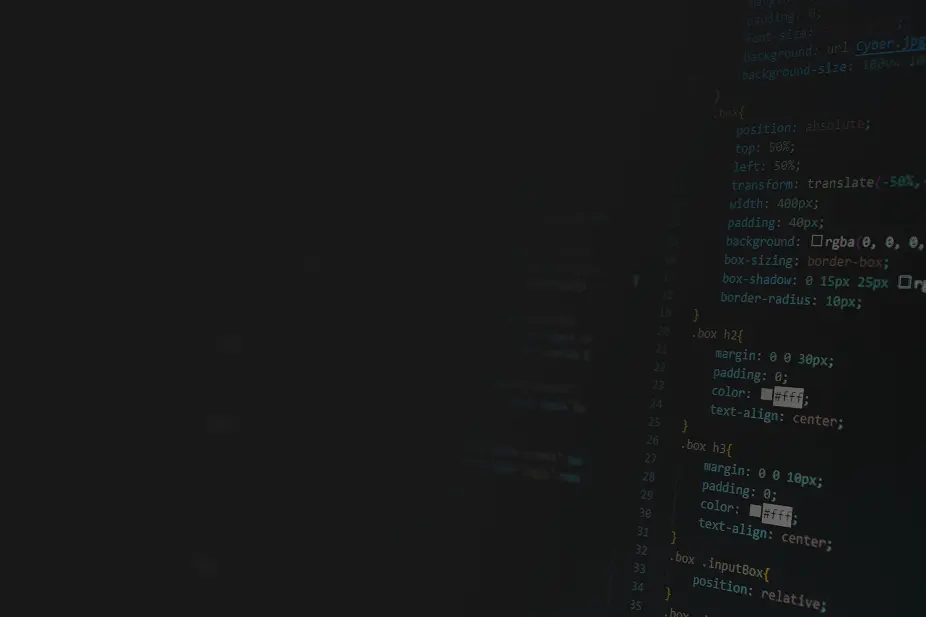
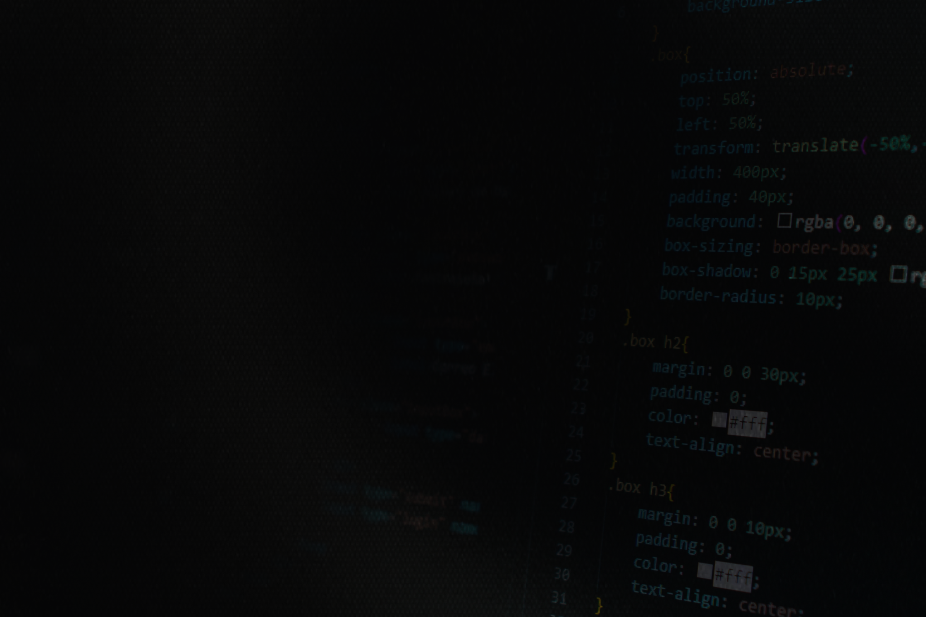
push 6

diff --git a/src/css/App.css b/src/css/App.css
@@ -30,15 +30,15 @@
 */
 
 :root {
-  /* --primary_color: rgba(160, 23, 3, 0.9); */
-  --primary_color: #ff1030;
-
-  /* --primary_color-dull: rgba(160, 23, 3, 0.7); */
-  --primary_color-dull: rgba(255, 16, 48, 0.7);
+  --primary_color: rgba(160, 23, 3, 1);
+  --accent_color: #ff1030;
+  --complimentary_color: #efd0a8;
+  --primary_color-dull: rgba(160, 23, 3, 0.7);
+  /* --primary_color-dull: rgba(255, 16, 48, 0.7); */
   --bg_img: url("liquid-bg.jpeg");
   /* --bg_texture: url("bg-texture.jpeg"); */
   --silver_color: #c0c0c0;
-  --bg_color: #121212;
+  --bg_color: #0b0b0b;
   --container_color: #101010;
   --border_color: #373737;
   --tech_font: "Bai Jamjuree", sans-serif;
@@ -82,11 +82,11 @@ body {
 
 #black-mobile-overlay {
   /*background-image: url("bg-gradient.webp");*/
-  background: rgb(77, 77, 77);
+  background: rgb(188 74 74);
   background-repeat: no-repeat;
   background-position: center;
   background-size: cover;
-  mix-blend-mode: multiply;
+  mix-blend-mode: color-burn;
   position: fixed;
   height: 100svh;
   width: 100%;
@@ -158,6 +158,15 @@ ul {
 /* On hover */
 ::-webkit-scrollbar-thumb:hover {
   background: #851403;
+}
+
+.videoWrapper {
+  opacity: 0;
+  transition: opacity 2s ease-in-out;
+}
+
+.videoWrapper.loaded {
+  opacity: 1;
 }
 
 .portfolio-video {
@@ -941,7 +950,7 @@ main.drake-main {
 
 /* 05 - Section Header */
 .section-header h1 {
-  font-size: 54px;
+  font-size: 62px;
   line-height: 60px;
   color: var(--silver_color);
   font-weight: 400;
@@ -959,7 +968,7 @@ main.drake-main {
   border-radius: 30px;
   border: 1px solid var(--border_color);
   position: fixed;
-  left: 20px;
+  left: 2vw;
   top: 50%;
   padding: 50px;
   z-index: 10;
@@ -1137,9 +1146,9 @@ main.drake-main {
   color: white;
 }
 .hero-section .hero-content h1 span {
-  color: var(--primary_color);
+  color: var(--accent_color);
   font-weight: 500;
-  /* text-shadow: 0 0 30px rgba(160, 23, 3, 0.15); */
+  text-shadow: 0 0 30px rgba(160, 23, 3, 0.35);
   /* animation: flicker 10s infinite ease-in-out; */
   will-change: text-shadow;
 }
@@ -1210,7 +1219,7 @@ main.drake-main {
 .hero-section .hero-content .facts h1 {
   font-size: 72px;
   font-family: var(--tech_font);
-  color: var(--primary_color);
+  color: var(--accent_color);
   line-height: 56px;
   margin-bottom: 18px;
   font-weight: 300;
@@ -1304,14 +1313,20 @@ body .body-overlay {
   left: 0;
   top: 0;
   width: 100%;
-  height: 100%;
+  height: 100svh;
   object-fit: cover;
   z-index: -2;
-  opacity: 0.4 !important;
   mix-blend-mode: hard-light;
   mix-blend-mode: lighten;
   /* transform: scaleX(-1); */
+  opacity: 0;
+  transition: opacity 2s ease-in-out;
 }
+
+body .body-overlay.loaded {
+  opacity: 0.4 !important;
+}
+
 /*.home2-page .body-overlay,*/
 /*.home3-page .body-overlay {*/
 /*  opacity: 0.1;*/
@@ -1405,7 +1420,8 @@ body .body-overlay {
   padding-bottom: 90px;
 }
 .services-items .service-item {
-  border: 1px solid rgba(160, 23, 3, 0.5);
+  /* border: 1px solid rgba(160, 23, 3, 0.3); */
+  border: 1px solid var(--border_color);
   border-radius: 20px;
   transition: 0.3s;
   position: relative;
@@ -1413,7 +1429,7 @@ body .body-overlay {
   margin-bottom: 20px;
   background-size: cover;
   background-repeat: no-repeat;
-  min-height: 430px;
+  min-height: 400px;
   display: flex;
   flex-direction: column;
   justify-content: center;
@@ -1437,7 +1453,7 @@ body .body-overlay {
   margin-bottom: 0;
 }
 .services-items .service-item h2 {
-  font-size: 40px;
+  font-size: 42px;
   font-weight: 400;
   margin-bottom: 12px;
   color: #fff;
@@ -1462,14 +1478,15 @@ body .body-overlay {
 }
 .services-items .service-item .projects {
   font-family: var(--tech_font);
-  font-weight: 500;
+  font-weight: 700;
   font-size: 12px;
   color: #fff;
+  /* color: var(--accent_color); */
   opacity: 0.9;
   letter-spacing: 1px;
   text-transform: uppercase;
   display: inline-block;
-  max-width: 64%;
+  max-width: 70%;
 }
 .services-items .service-item:hover .projects {
   /*text-decoration: underline;*/
@@ -1478,7 +1495,8 @@ body .body-overlay {
   position: absolute;
   font-size: 100px;
   opacity: 0.4;
-  color: var(--primary_color-dull);
+  text-shadow: 0 0 10px rgba(0, 0, 0, 0.9);
+  color: var(--silver_color);
   top: 25px;
   right: 30px;
   margin-bottom: 16px;
@@ -1621,7 +1639,7 @@ body .body-overlay {
   flex-direction: column;
   justify-content: center;
   position: relative;
-  background: rgba(14, 14, 14, 0.9);
+  background: rgba(3, 3, 3, 0.9);
 }
 .testimonial-item .testimonial-item-inner::before {
   content: "";
@@ -1631,12 +1649,12 @@ body .body-overlay {
   bottom: 0;
   width: 100%; /* Explicit width */
   height: 100%; /* Explicit height */
-  background-image: url("bg-texture-vertical.jpeg");
+  background-image: url("liquid-bg.jpeg");
   background-repeat: no-repeat;
   background-position: center;
   background-size: cover;
   background-blend-mode: luminosity;
-  opacity: 0.5;
+  opacity: 1;
   z-index: -1;
   border-radius: 30px;
 }
@@ -1670,7 +1688,7 @@ body .body-overlay {
 }
 .testimonial-item .testimonial-item-inner > p {
   font-size: 18px;
-  color: var(--silver_color);
+  color: #fff;
   font-weight: 300;
   line-height: 28px;
   margin-bottom: 32px;

diff --git a/src/components/MainWrapper.js b/src/components/MainWrapper.js
@@ -1,35 +1,34 @@
-import React from 'react'
-import Lsb from './Global-content/Lsb'
-import Herosec from './Main-Components/Herosec'
+import React from "react";
+import Lsb from "./Global-content/Lsb";
+import Herosec from "./Main-Components/Herosec";
 // import About from './Main-Components/About'
 // import Resume from './Main-Components/Resume'
-import Service from './Main-Components/Service'
+import Service from "./Main-Components/Service";
 // import Skills from './Main-Components/Skills'
-import Portfolio from './Main-Components/Portfolio'
-import Testimonials from './Main-Components/Testimonials'
-import Clientlogos from './Main-Components/Clientlogos'
+import Portfolio from "./Main-Components/Portfolio";
+import Testimonials from "./Main-Components/Testimonials";
+import Clientlogos from "./Main-Components/Clientlogos";
 // import Pricing from './Main-Components/Pricing'
-import Contact from './Main-Components/Contact'
+import Contact from "./Main-Components/Contact";
 
 export default function Main() {
   return (
     <main className="drake-main">
-        <div id="smooth-wrapper">
-            <div id="smooth-content">
-                <Herosec/>
-                <Lsb/> {/* this component will used by mobile devices */}
-                <Service/>
-                {/*<Resume/>*/}
-                {/*<Skills/>*/}
-                {/*<About/>*/}
-                <Testimonials/>
-                <Clientlogos/>
-                <Portfolio/>
-                {/*<Pricing/>*/}
-                <Contact/>
-                
-            </div>
+      <div id="smooth-wrapper">
+        <div id="smooth-content">
+          <Herosec />
+          <Lsb /> {/* this component will used by mobile devices */}
+          <Portfolio />
+          <Service />
+          {/*<Resume/>*/}
+          {/*<Skills/>*/}
+          {/*<About/>*/}
+          <Testimonials />
+          <Clientlogos />
+          {/*<Pricing/>*/}
+          <Contact />
         </div>
+      </div>
     </main>
-  )
+  );
 }

diff --git a/src/components/Global-content/Video.js b/src/components/Global-content/Video.js
@@ -1,31 +1,41 @@
-import React, { Component } from "react";
+import React, { useEffect, useRef } from "react";
 
-export class Video extends Component {
-  componentDidUpdate(prevProps) {
-    if (this.props.video !== prevProps.video) {
-      this.videoRef.src = this.props.video;
+const Video = ({ video }) => {
+  const videoRef = useRef(null);
+  const wrapperRef = useRef(null);
+
+  useEffect(() => {
+    if (videoRef.current) {
+      videoRef.current.src = video;
     }
-  }
+  }, [video]);
 
-  render() {
-    return (
-      <div className="videoWrapper">
-        <video
-          className="body-overlay"
-          muted
-          autoPlay
-          loop
-          style={{ opacity: 0.1 }}
-          ref={(ref) => (this.videoRef = ref)}
-          playsInline
-          preload="auto"
-        >
-          <source src={this.props.video} type="video/mp4" />
-        </video>
-        {/*<p>View my projects</p>*/}
-      </div>
-    );
-  }
-}
+  const handleLoadedData = () => {
+    if (wrapperRef.current) {
+      wrapperRef.current.classList.add("loaded");
+    }
+    if (videoRef.current) {
+      videoRef.current.classList.add("loaded");
+    }
+  };
+
+  return (
+    <div className="videoWrapper" ref={wrapperRef}>
+      <video
+        className="body-overlay"
+        muted
+        autoPlay
+        loop
+        style={{ opacity: 0.1 }}
+        ref={videoRef}
+        playsInline
+        preload="auto"
+        onLoadedData={handleLoadedData}
+      >
+        <source src={video} type="video/mp4" />
+      </video>
+    </div>
+  );
+};
 
 export default Video;

diff --git a/src/components/Main-Components/Herosec.js b/src/components/Main-Components/Herosec.js
@@ -63,10 +63,10 @@ export default function Herosec() {
             <div className="d-flex">
               <div className="facts d-flex">
                 <div className="left scroll-animation" data-aos="fade-right">
-                  <h1 className="facts-text">4+</h1>
+                  <h1 className="facts-text">10+</h1>
                   <p>
-                    Years of <br />
-                    Experience
+                    Years in the<br />
+                    Creative Industry
                   </p>
                 </div>
                 <div className="right scroll-animation" data-aos="fade-left">
